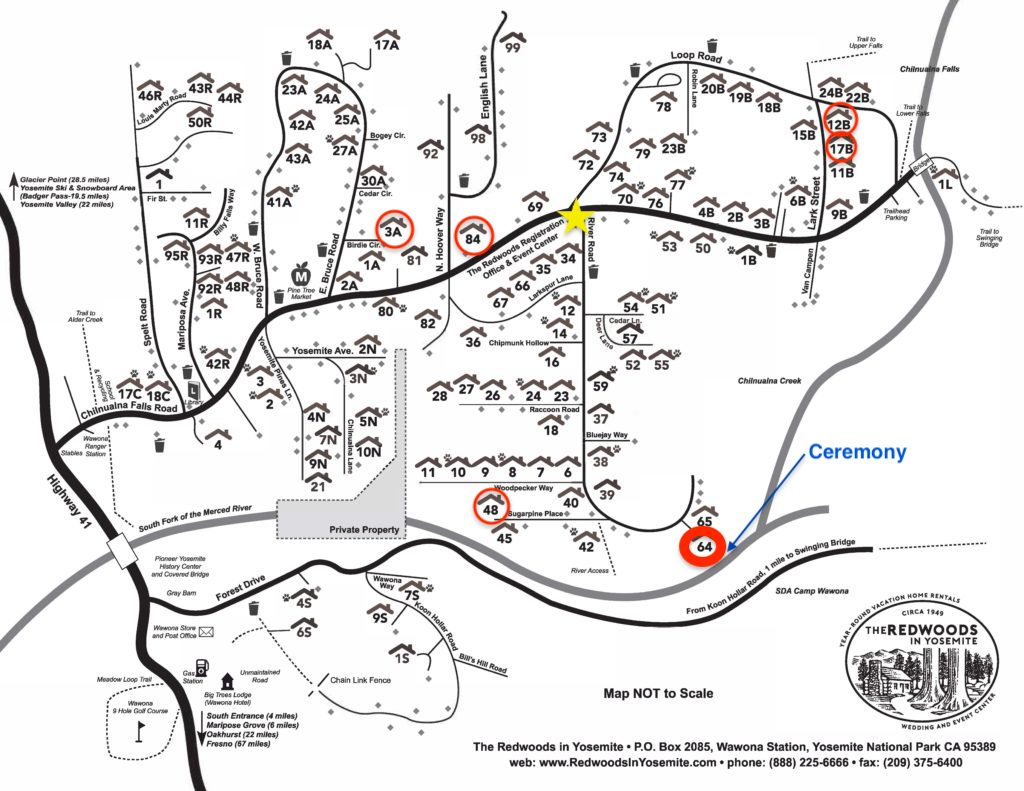
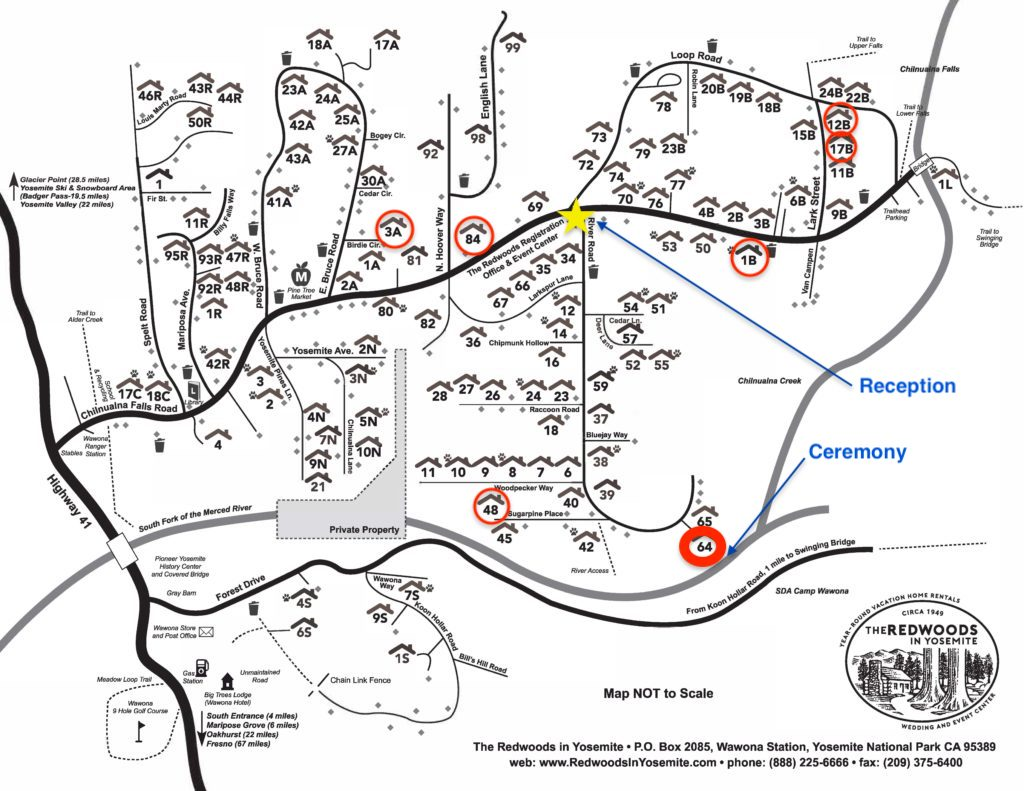
one more cabin and such

diff --git a/index.html b/index.html
@@ -198,7 +198,7 @@
           <div style="margin:0 auto">
             <h3> These are the cabins we're taking over!</h3>
             <p>Red circles are cabins, yellow star is event center where reception will happen. Ceremony will be in back yard of cabin 64 by river as long as weather and stream levels cooperate.</p>
-            <p style="color:red">64, 17b, 48, 12b, 3A, and 84.</p>
+            <p style="color:red">64, 17B, 48, 12B, 3A, 1B and 84.</p>
             <image src="./images/redwoods_map_a.jpg"></image>
           </div>
         </section>
